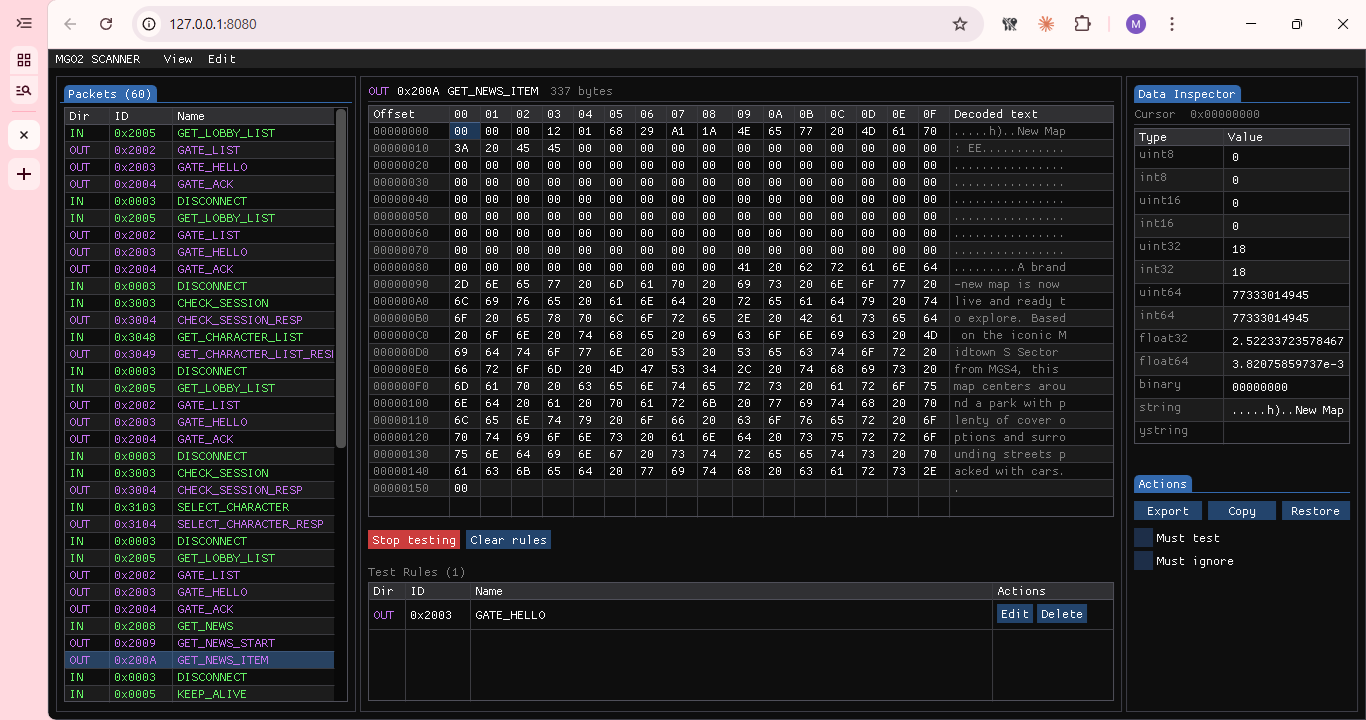
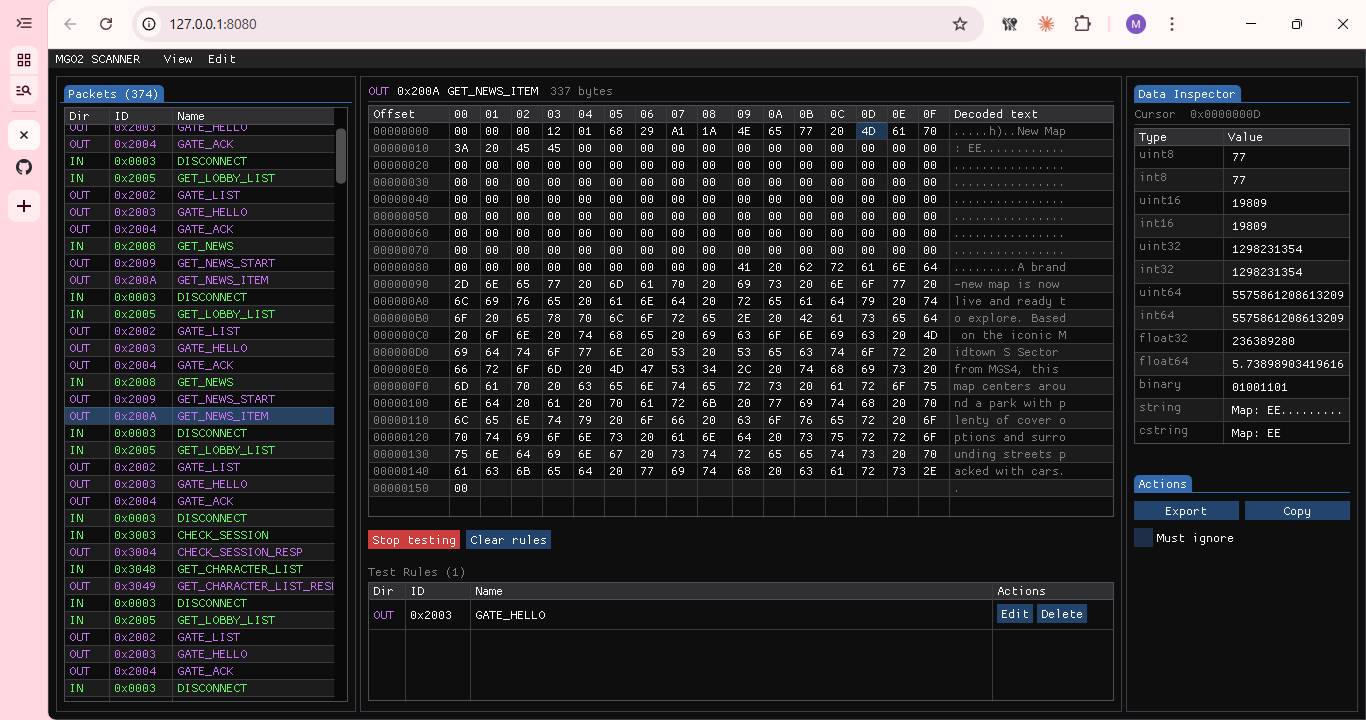
Fix cstring editing, remove Must test checkbox and unsaved-edits modal
- Fix cstring InputText cursor jumping to wrong position on each keystroke
  by preserving the field value across content changes; only refresh from
  bytes when the hex cursor moves to a new position
- Cap cstring null search to 32 bytes (CSTRING_SCAN_LIMIT) to prevent
  overwriting adjacent packet fields when the null terminator is far away
- Remove "Must test" checkbox from Actions panel — rules are auto-created
  on first edit so it is no longer needed
- Remove hasUnsavedPacketEdits, showUnsavedSelectionModal, pendingSelectedIdx
  and the "Unsaved changes" modal — all dead code since editing auto-switches
  to rule view
- Disable auto-scroll by default
- Update screenshot

diff --git a/public/app.js b/public/app.js
@@ -213,9 +213,8 @@ let spoofingEnabled = false;
 let keepUpstreamOpen = false;
 const tcpStatuses = [];
 
-let autoScroll  = true;
+let autoScroll  = false;
 let selectedIdx = -1;
-let pendingSelectedIdx = null;
 let packetListScrollY = 0;
 
 // Current-packet detail (updated on selection change)
@@ -229,6 +228,8 @@ const detail = {
 
 const inspectorEd = {
   key: '',
+  cursorKey: '',
+  cStringLen: 1,
   fields: Object.create(null),
 };
 
@@ -249,7 +250,6 @@ let pendingSave   = null;
 let pendingClearRules = false;
 let pendingSpoofingEnabled = null;
 let pendingExcludedRule = null;
-let showUnsavedSelectionModal = false;
 let showConnectionStateModal = false;
 let pendingKeepUpstreamOpen = null;
 let editingRule = null;              // { cmd, isInbound, payloadHex } — rule editing mode
@@ -362,12 +362,6 @@ function isRangeModified(byteLen) {
   return detail.compact.slice(start, end) !== detail.original.slice(start, end);
 }
 
-function hasUnsavedPacketEdits() {
-  if (editingRule) return false; // rule edits are sent immediately
-  const pkt = getSelectedPacket();
-  if (!pkt) return false;
-  return detail.compact !== detail.original && !getSelectedRule();
-}
 
 function requestPacketSelection(idx) {
   if (idx === selectedIdx && !editingRule) return;
@@ -404,7 +398,7 @@ function startEditingRule(rule) {
   detail.packet     = '';
   detail.lastIdx    = -3; // sentinel for rule-edit mode
   detail.cursorByte = 0;
-  inspectorEd.key   = '';
+  inspectorEd.key = ''; inspectorEd.cursorKey = '';
   searchState.results = [];
   searchState.index   = -1;
 }
@@ -419,7 +413,7 @@ function loadSelectedDetailFromPacket(preserveSearch = false) {
   detail.original = visiblePayload;
   detail.packet = pkt.packet || '';
   detail.cursorByte = 0;
-  inspectorEd.key = '';
+  inspectorEd.key = ''; inspectorEd.cursorKey = '';
   if (!preserveSearch) {
     searchState.results = [];
     searchState.index = -1;
@@ -460,7 +454,7 @@ function currentPlainPacketCompact() {
 
 function restoreCurrentPayload() {
   detail.compact = detail.original;
-  inspectorEd.key = '';
+  inspectorEd.key = ''; inspectorEd.cursorKey = '';
   queueSpoofSync();
 }
 
@@ -663,9 +657,29 @@ function encodeCString(text, fieldLen) {
   return out;
 }
 
+const CSTRING_SCAN_LIMIT = 32;
+
 function syncInspectorFields(buf, dv, n) {
   const off = detail.cursorByte;
-  const key = `${detail.lastIdx}:${off}:${detail.compact}`;
+  const cursorKey = `${detail.lastIdx}:${off}`;
+  const key = `${cursorKey}:${detail.compact}`;
+
+  // Recalculate cstring state only when the cursor moves to a new position.
+  // - Cap the null search to CSTRING_SCAN_LIMIT bytes so we never treat a
+  //   distant null (from a different field) as our terminator and accidentally
+  //   clobber many bytes on write.
+  // - The cstring display value is also only refreshed here; between cursor
+  //   moves it keeps whatever the user last typed so jsimgui's InputText
+  //   internal cursor position is not reset on every keystroke.
+  const cursorMoved = inspectorEd.cursorKey !== cursorKey;
+  if (cursorMoved) {
+    inspectorEd.cursorKey = cursorKey;
+    const scanLimit = Math.min(CSTRING_SCAN_LIMIT, n);
+    const nullAt = buf.slice(0, scanLimit).indexOf(0);
+    inspectorEd.cStringLen = nullAt === -1 ? scanLimit : nullAt + 1;
+    inspectorEd.fields['cstring'] = decodeCString(buf.slice(0, scanLimit));
+  }
+
   if (inspectorEd.key === key) return;
   inspectorEd.key = key;
 
@@ -682,7 +696,9 @@ function syncInspectorFields(buf, dv, n) {
     float64: n >= 8 ? String(dv.getFloat64(0, false)) : '',
     binary: n >= 1 ? dv.getUint8(0).toString(2).padStart(8, '0') : '',
     string: decodePrintableAscii(buf.slice(0, Math.min(26, n))),
-    cstring: decodeCString(buf),
+    // Preserve the cstring value the user is typing; only refresh it when the
+    // cursor moves (handled above in the cursorMoved branch).
+    cstring: inspectorEd.fields['cstring'] ?? '',
   };
 }
 
@@ -936,8 +952,7 @@ function editRow(label, fieldKey, byteLen, parseToBytes) {
   n >= 1 ? editRow('string', 'string', Math.min(26, n), value => {
     return encodeAsciiPatch(value.slice(0, Math.min(26, n)), buf.slice(0, Math.min(26, n)));
   }) : na('string');
-  const nullAt = buf.indexOf(0);
-  const cStringLen = nullAt === -1 ? Math.min(64, n) : nullAt + 1;
+  const cStringLen = inspectorEd.cStringLen;
   n >= 1 ? editRow('cstring', 'cstring', cStringLen, value => {
     return encodeCString(value, cStringLen);
   }) : na('cstring');
@@ -982,8 +997,7 @@ function renderRightSidebar(vpH) {
             ImGui.SameLine(0, actionGap);
             if (ImGui.Button('Copy##rule', new ImVec2(actionW, 0))) copyCurrentRule();
           } else if (hasSel) {
-            const pkt     = packets[selectedIdx];
-            const hasRule = !!getSelectedRule();
+            const pkt = packets[selectedIdx];
 
             ImGui.Spacing();
             const actionGap = 6;
@@ -993,11 +1007,6 @@ function renderRightSidebar(vpH) {
             if (ImGui.Button('Copy', new ImVec2(actionW, 0))) copyCurrentPacket();
 
             ImGui.Spacing();
-            const spoofRuleEnabled = [hasRule];
-            if (ImGui.Checkbox('Must test', spoofRuleEnabled)) {
-              if (spoofRuleEnabled[0]) pendingSave = { cmd: pkt.cmd, isInbound: pkt.isInbound, payloadHex: detail.compact };
-              else pendingDelete = { cmd: pkt.cmd, isInbound: pkt.isInbound };
-            }
             const excludeFuture = [!!getSelectedExcludedRule()];
             if (ImGui.Checkbox('Must ignore', excludeFuture)) {
               pendingExcludedRule = { cmd: pkt.cmd, isInbound: pkt.isInbound, enabled: excludeFuture[0] };
@@ -1265,33 +1274,6 @@ function renderSearchWindow(vpW, vpH) {
       : `${searchState.index + 1} / ${searchState.results.length}`;
     ImGui.TextDisabled(resultText);
 
-  } finally {
-    ImGui.End();
-  }
-}
-
-function renderUnsavedSelectionModal(vpW, vpH) {
-  if (!showUnsavedSelectionModal) return;
-  ImGui.SetNextWindowPos(new ImVec2(Math.floor((vpW - 360) * 0.5), Math.floor((vpH - 140) * 0.5)), 4);
-  ImGui.SetNextWindowSize(new ImVec2(360, 140), 4);
-  const openRef = [showUnsavedSelectionModal];
-  ImGui.Begin('Unsaved changes', openRef, WF_NoResize);
-  showUnsavedSelectionModal = openRef[0];
-  if (!showUnsavedSelectionModal) pendingSelectedIdx = null;
-  try {
-    ImGui.TextWrapped('The current packet has unsaved edits and "Must test" is not enabled.');
-    ImGui.TextWrapped('Change selection and discard those edits?');
-    ImGui.Spacing();
-    if (ImGui.Button('Discard and continue')) {
-      if (pendingSelectedIdx !== null) selectedIdx = pendingSelectedIdx;
-      pendingSelectedIdx = null;
-      showUnsavedSelectionModal = false;
-    }
-    ImGui.SameLine(0, 8);
-    if (ImGui.Button('Cancel')) {
-      pendingSelectedIdx = null;
-      showUnsavedSelectionModal = false;
-    }
   } finally {
     ImGui.End();
   }
